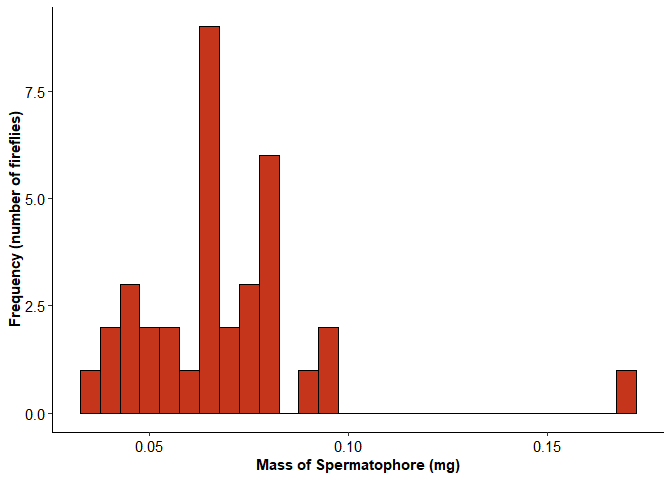
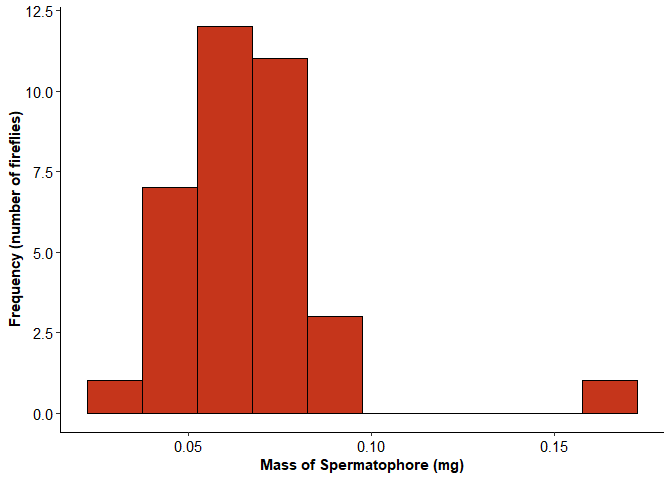
Fixing problems MaryJo saw

diff --git a/lab-report.md b/lab-report.md
@@ -75,7 +75,7 @@ firefly_data
 # ... with 25 more rows
 
 ggplot(data = firefly_data) +
-  geom_histogram(mapping = aes(x = spermatophoreMass), binwidth = 0.005,
+  geom_histogram(mapping = aes(x = spermatophoreMass), binwidth = 0.015,
                  fill = "#C5351B", color = "black") +
   labs(x = "Mass of Spermatophore (mg)", y = "Frequency (number of fireflies)") +
   theme_classic() +
@@ -147,11 +147,6 @@ nrow(distinct(birds, order))
 > axis labels.
 
 ``` r
-library(auk)                          # load the auk package
-birds <- ebird_taxonomy %>%           # start with the ebird_taxonomy data
-  as_tibble() %>%                     # tibbles print better in the console
-  filter(category == "species")       # remove non-species taxa
-
 ggplot(data = birds) +
   geom_bar(mapping = aes(x = fct_infreq(order)), fill = "#C5351B") + 
   labs(x = "Order", y = "Frequency (number of birds)", 
@@ -160,7 +155,7 @@ ggplot(data = birds) +
   theme_classic(base_size = 12) +
   theme(
     axis.title = element_text(face = "bold"),
-    axis.text = element_text(color = "black", size = rel(1)),
+    axis.text = element_text(color = "black", size = rel(0.75)),
     axis.text.x = element_text(angle = 45, hjust = 1),
     axis.ticks.x = element_blank()
   )
@@ -178,7 +173,7 @@ I reviewed MaryJo’s lab report at this URL:
 <https://github.com/BIOL275-MSUM/lab-3-intro-to-ggplot-MaryJo-Nelson>
 
 MaryJo reviewed my lab report at this URL:
-<https://github.com/BIOL275-MSUM/lab-3-intro-to-ggplot-BeauAyers>
+<https://github.com/BIOL275-MSUM/lab-3-intro-to-ggplot-BeauAyers/issues/1>
 
 ## Session Info
 
